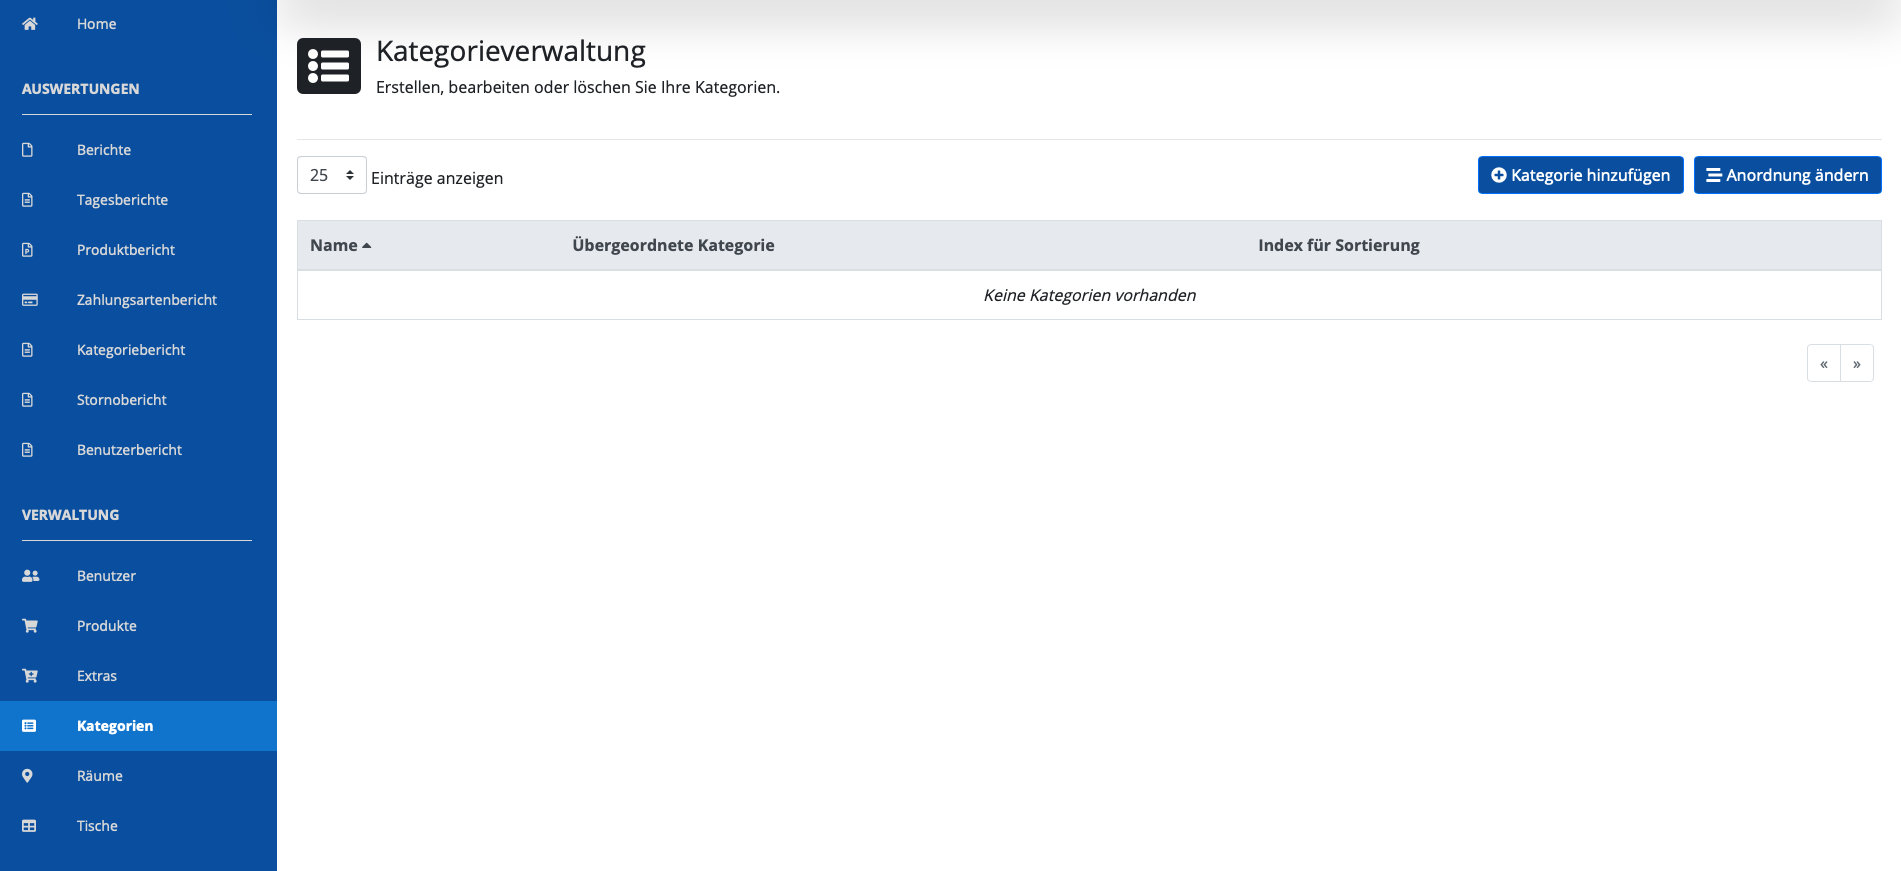
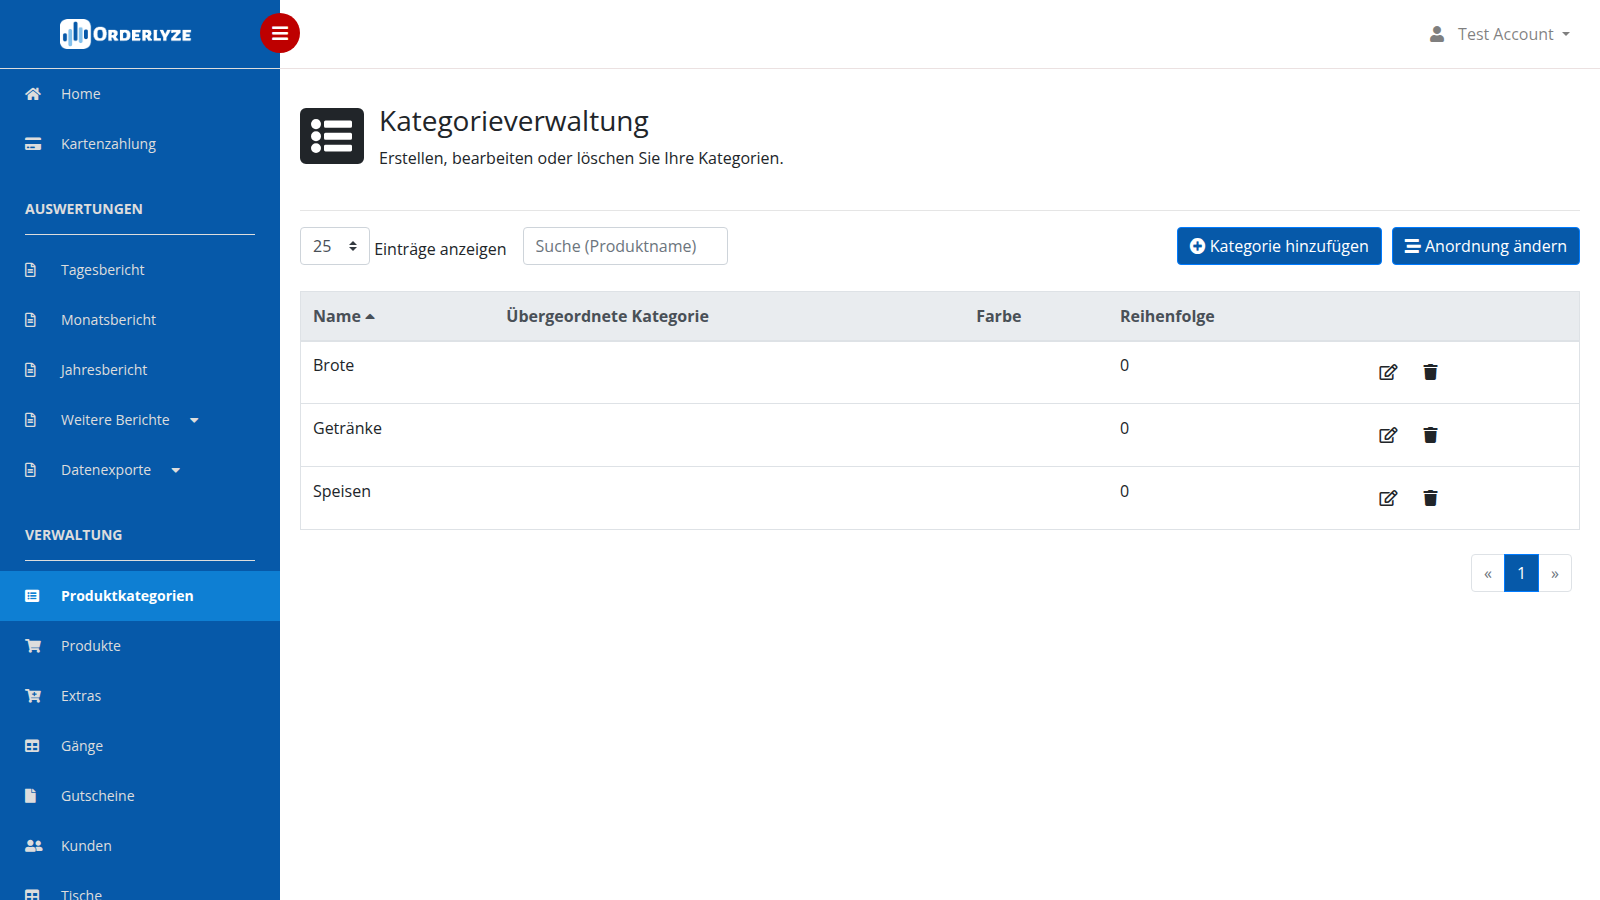
Refresh Erste Schritte guide for current web UI
Alle 13 Web-Screenshots zeigten die alte Oberfläche und wurden mit der
aktuellen UI neu erstellt. Logo-Hinweis präzisiert (nur E-Beleg) und
Rechnungs-Fußtext zu Rechnungsdesign korrigiert.

diff --git a/docs/erste-schritte/index.md b/docs/erste-schritte/index.md
@@ -105,13 +105,13 @@ Dort kannst du:
 
   ![Unternehmensdaten](/screenshots/erste-schritte/unternehmen.png)
 
-- Das **Logo** für Rechnungen hochladen
+- Das **Logo** hochladen — es wird beim E-Beleg (digitale Rechnung) angezeigt. Soll das Logo auch auf gedruckten Rechnungen erscheinen, kontaktiere das Orderlyze-Team.
 
   ![Logo hochladen](/screenshots/erste-schritte/logo.png)
 
-- Den **Rechnungs-Fußtext** anpassen
+- Das **Rechnungsdesign** anpassen (Kopf- und Fußzeile der Rechnung)
 
-  ![Rechnungs-Footer](/screenshots/erste-schritte/rechnung-footer.png)
+  ![Rechnungsdesign](/screenshots/erste-schritte/rechnung-footer.png)
 
 Diese Einstellungen sind nicht zwingend für den Start nötig — du kannst sie auch später vervollständigen.
 
